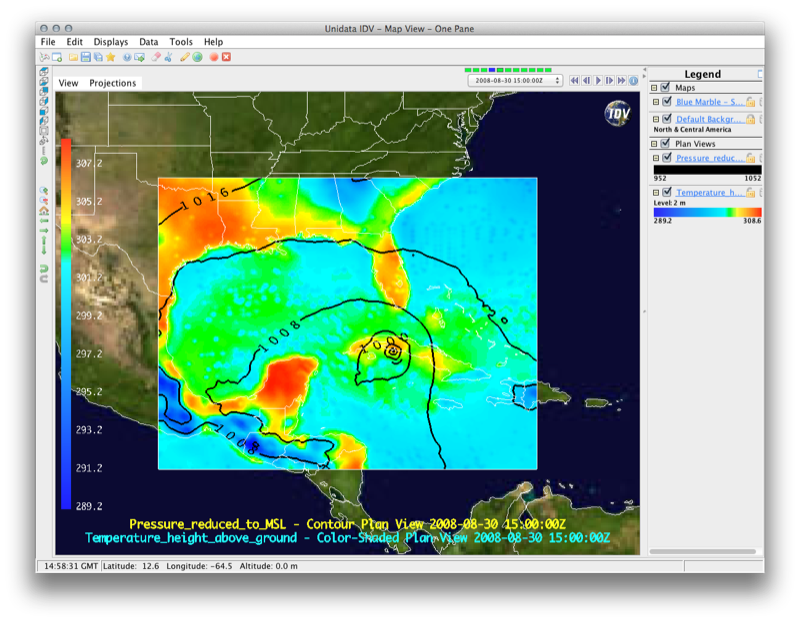
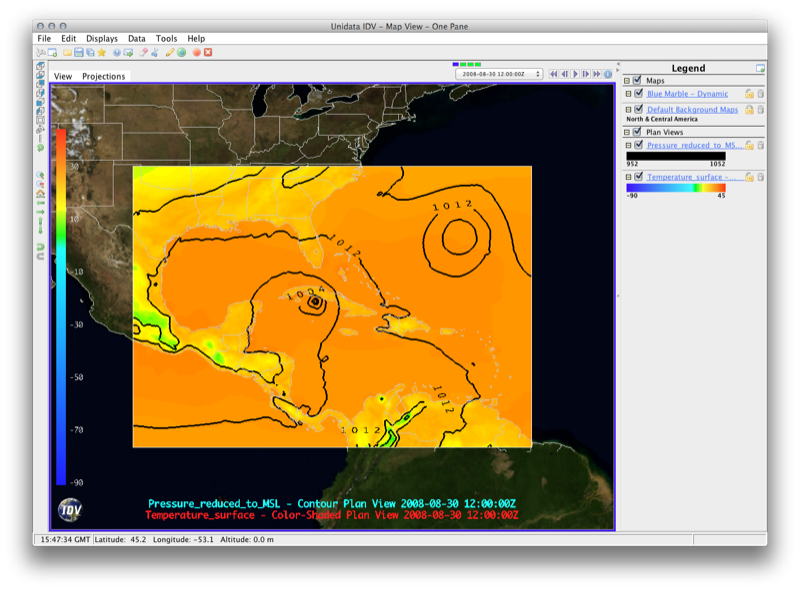
added performance section to WRF tutorial.

diff --git a/auxdata/docs/workshop/content/datadisplays/wrf/InteractiveWRFGridDisplays.html b/auxdata/docs/workshop/content/datadisplays/wrf/InteractiveWRFGridDisplays.html
@@ -9,11 +9,53 @@ Displays for WRF post-processed data.
 </div>
 
 <p>
-The following are examples of some of the different kinds of displays available in the IDV. For more information how to manipulate the display, simply click the image to see the User Guide section for that particular display type. The general format of this section will be an image, followed by the steps needed to reproduce the image. Please note that some displays (particularly the three dimensional ones) will take quite some time to render &mdash; consider using only one time step when producing these views. <!--the pages that pop-up use different data sources, but the instructions for creating the displays are the same.-->
+The following are examples of some of the different kinds of displays available in the IDV. For more information how to manipulate the display, simply click the image to see the User Guide section for that particular display type. The general format of this section will be an image, followed by the steps needed to reproduce the image. However, before diving into creating different displays in the IDV, let's take a moment to address performance issues you may encounter.
+</p>
+
+<div class="pagetitle">A note on performance</div>
+
+<p>
+As you may have experienced, it can take quite some time to get the data into the IDV and render the displays. One way to speed this up is to spatially subset the data over an area of interest. For our case, the Gulf of Mexico is where the 'action' is, so let's subest for that particular region:
+</p>
+
+<ol class="step">
+<li>Clear any existing data sources and displays by clicking the scissors symbol found just below the Main Menu bar on either the Dashboard to Main View window.</li>
+<li>Reload your WRF output using the following steps:</li>
+<ol class="step">
+  <li>From the [ht::command Data Choosers] tab in the Dashboard, locate your WRF output in the file browser and select the files you wish to load (hold shift to select multiple files)</li>
+  <li>Make sure that [ht::param Data Source Type] is set to [ht::param Aggregate Grids by Time]</li>
+  <li>Click [ht::command Add Source]</li>
+  <li>In the [ht::command Field Selector] panel, <b>right-click</b> your WRF output under [ht::param Data Sources] and click [ht::command Properties].</li>
+  <li>From the Properties box, select the [ht::command Spatial Subset] tab and use your mouse to click-and-drag a rectangular box on the [ht::param Bounding Box] map display.</li>
+  <li>After selecting your spatial subset region, click [ht::command OK].
+</ol>
+</ol>
+
+[ht::cimg ./images/InteractiveWRFSpatialSubset.png]
+
+<p>
+<b>Note:</b> Even with spatial subsetting in place, some displays (particularly the three dimensional ones) will take quite some time to render &mdash; consider using only one time step when producing these views.
 </p>
 
 <p>
-<b>Note:</b> Many of the example images used below take advatage of the NASA blue marble background image. If you wish to use blue marble, simply click [ht::menu {Displays} {Maps and Bounds} {Add Background Image}] and select [ht::param Blue Marble]. A second way to add the blue marble background is to click the globe icon found just below the Main Menu Bar. Both of these methods can be used from either the Dashboard or the Main Window.
+Many of the example images used below take advantage of the NASA blue marble background image. If you wish to use blue marble, simply click [ht::menu {Displays} {Maps and Bounds} {Add Background Image}] and select [ht::param Blue Marble]. A second way to add the blue marble background is to click the globe icon found just below the Main Menu Bar. Both of these methods can be used from either the Dashboard or the Main Window.
+</p>
+
+<p>
+It may seem like we've done a lot of work to setup our environment (loading data, subsetting, adding a background, etc.). In order to aid in quickly restoring our environment, we will use the <b>bundle</b> feature of the IDV. A bundle is a way of saving the state of the IDV (current data sources, loaded maps, etc.). You can create a bundle that points to local or remote data (an .xidv), or you can create a bundle that actually contains the data (a .zidv), the latter of which is useful when sharing displays of data you've generated yourself. For our purposes, let's create a bundle that points to the WRF output on our memory stick:
+</p>
+
+<ol class="step">
+<li>From the main menu bar, select [ht::menu {File} {Save As}] to bring up the [ht::command Save] dialog box.</li>
+<li>Make sure [ht::param Views], [ht::param Displays], and [ht::param Data Sources] are checked, as well as [ht::param Save with relative paths].</li>
+<li>Make sure the [ht::param File Format:] is set to [ht::param IDV Bundles (*.xidv)], and name the bundle [ht::param basicSetup.xidv].</li>
+<li>Save your bundle in the same directory as the WRF output on the memory stick</li>
+</ol>
+
+[ht::cimg ./images/InteractiveWRFSaveBundle.png]
+
+<p>
+To test the bundle, click the scissors symbol, found just below the main menu bar, to clear out all of the data and displays. Then, from the main menu bar, click [ht::menu {File} {Open}], use the file dialog box to navigate to your bundle, and select your bundle. An [ht::command Open bundle] dialog box will appear &mdash; make sure [ht::param Remove and displays & data] is checked and click [ht::command OK]. That's it &mdash; you should be good to go!
 </p>
 
 <div class="pagetitle">Plan Views</div>
@@ -22,14 +64,14 @@ The following are examples of some of the different kinds of displays available 
 
 <ol class="step">
 <li>Clear any existing displays by clicking the red and white eraser symbol found just below the Main Menu bar on either the Dashboard to Main View window.</li>
-<li>Make sure your WRF ouput is [ht::popup "InteractiveWRFLoadOutput.html" loaded].</li>
+<li>Make sure your WRF ouput is [ht::popup "InteractiveWRFLoadOutput.html" loaded] (or utilize the bundle we just created).</li>
 <li>In the [ht::command Field Selector] panel,
     expand the [ht::param 2D grid] tab. Select
-    [ht::param Temperature_height_above_ground] and the
+    [ht::param Temperature @ Surface] and the
     [ht::display Color-Shaded Plan View] display, then click
     the [ht::command Create Display] button.  </li>
 <li>In the [ht::command Displays] panel, Select
-    [ht::param Temperature_height_above_ground], and click
+    [ht::param Temperature @ Surface], and click
     [ht::menu {Edit} {Properties}], then select the [ht::param Color Scale Tab]
     and check the box next to [ht::param visible].
     Other properties of the color scale can be accessed
@@ -40,12 +82,10 @@ The following are examples of some of the different kinds of displays available 
     [ht::param Pressure_reduced_to_MSL @ msl] and the
     [ht::display Contour Plan View] display, then click
     the [ht::command Create Display] button.  </li>
-<li>In the [ht::command Displays] panel, Select
-    [ht::param Pressure_reduced_to_MSL]. Click the [ht::command Change] box next to Contour
-    to change the contour properties. Contour properties, such as contour color and field smoothing, can be
-    accessed from this tab. Change
-    the contour color to black by clicking the box next to Color Table and
-    select [ht::menu {Solid} {Black}].</li>
+<li>In the [ht::command Displays] panel, select the
+    [ht::param Pressure_reduced_to_MSL] field. Click the [ht::command Change] box next to Contour
+    to change the contour properties, such as base contour, interval, and label properties.</li>
+<li>In the [ht::command Displays] panel, change the contour color to black by clicking the box next to Color Table (likely labeled [ht::param PressureMSL]) and selecting [ht::menu {Solid} {Black}].</li>
 <li>Animate your display by clicking the <b>"play"</b> button, located just above
     and to the right of your display on the Main View Window</li>
 </ol>
@@ -56,7 +96,7 @@ The following are examples of some of the different kinds of displays available 
 
 <ol class="step">
 <li>Clear any existing displays by clicking the red and white eraser symbol found just below the Main Menu bar on either the Dashboard to Main View window.</li>
-<li>Make sure your WRF ouput is [ht::popup "InteractiveWRFLoadOutput.html" loaded].</li>
+<li>Make sure your WRF ouput is [ht::popup "InteractiveWRFLoadOutput.html" loaded] (or utilize the bundle we just created).</li>
 <li>In the [ht::command Field Selector] panel,
     expand the [ht::param 2D grid] tab. Scroll down and expand the
     [ht::param Derived] tab. Select the
@@ -91,7 +131,7 @@ creating the display.
 
 <ol class="step">
 <li>Clear any existing displays by clicking the red and white eraser symbol found just below the Main Menu bar on either the Dashboard to Main View window.</li>
-<li>Make sure your WRF ouput is [ht::popup "InteractiveWRFLoadOutput.html" loaded].</li>
+<li>Make sure your WRF ouput is [ht::popup "InteractiveWRFLoadOutput.html" loaded] (or utilize the bundle we just created).</li>
 <li>In the [ht::command Field Selector] panel,
     expand the [ht::param 2D grid] tab. Select
     [ht::param Pressure Reduced to MSL @ msl]</li>
@@ -104,7 +144,7 @@ we create the Hovm&ouml;ller diagram.
 
 <ol class="step">
 <li>After selecting [ht::param Pressure Reduced to MSL @ msl], click
-    the [ht::param Region] tab located in the bottom left panel, uncheck [ht::param Use Default]
+    the [ht::param Region] tab located in the bottom right panel, uncheck [ht::param Use Default]
     and select the region of interest by using your mouse to click and drag a rectangular selection on the map.</li>
 <li>Selet the [ht::menu {Hovmoller} {Time-Latitude (Color Shaded)}] display,
     then click the [ht::command Create Display] button.</li>
@@ -126,7 +166,7 @@ averaged over longitude for each time-step. To average over latitude instead, re
 
 <ol class="step">
 <li>Clear any existing displays by clicking the red and white eraser symbol found just below the Main Menu bar on either the Dashboard to Main View window.</li>
-<li>Make sure your WRF ouput is [ht::popup "InteractiveWRFLoadOutput.html" loaded].</li>
+<li>Make sure your WRF ouput is [ht::popup "InteractiveWRFLoadOutput.html" loaded] (or utilize the bundle we just created).</li>
 <li>In the [ht::command Field Selector] panel,
     expand the [ht::param 3D grid] tab. Scroll down and expand the
     [ht::param Derived] tab. Select the
@@ -152,7 +192,7 @@ averaged over longitude for each time-step. To average over latitude instead, re
 
 <ol class="step">
 <li>Clear any existing displays by clicking the red and white eraser symbol found just below the Main Menu bar on either the Dashboard to Main View window.</li>
-<li>Make sure your WRF ouput is [ht::popup "InteractiveWRFLoadOutput.html" loaded].</li>
+<li>Make sure your WRF ouput is [ht::popup "InteractiveWRFLoadOutput.html" loaded] (or utilize the bundle we just created).</li>
 <li>In the [ht::command Field Selector] panel,
     expand the [ht::param 3D grid] tab. Scroll down and expand the
     [ht::param Derived] tab. Select the
@@ -180,7 +220,7 @@ above, do the following:
 
 <ol class="step">
 <li>Clear any existing displays by clicking the red and white eraser symbol found just below the Main Menu bar on either the Dashboard to Main View window.</li>
-<li>Make sure your WRF ouput is [ht::popup "InteractiveWRFLoadOutput.html" loaded].</li>
+<li>Make sure your WRF ouput is [ht::popup "InteractiveWRFLoadOutput.html" loaded] (or utilize the bundle we just created).</li>
 <li>In the [ht::command Field Selector] panel,
     expand the [ht::param 3D grid] tab. Scroll down and expand the
     [ht::param Derived] tab. Select the
@@ -215,7 +255,7 @@ Notice that at this point, each cross section has its own control in the view wi
 
 <ol class="step">
 <li>Clear any existing displays by clicking the red and white eraser symbol found just below the Main Menu bar on either the Dashboard to Main View window.</li>
-<li>Make sure your WRF ouput is [ht::popup "InteractiveWRFLoadOutput.html" loaded].</li>
+<li>Make sure your WRF ouput is [ht::popup "InteractiveWRFLoadOutput.html" loaded] (or utilize the bundle we just created).</li>
 <li>In the [ht::command Field Selector] panel,
     expand the [ht::param 2D grid] tab and select the
     [ht::param Pressure_Reduced_to_MSL @ msl] field. Then, hold
@@ -234,7 +274,7 @@ In the Main View Window, you will see contours of [ht::param Pressure_Reduced_to
 
 <ol class="step">
 <li>Clear any existing displays by clicking the red and white eraser symbol found just below the Main Menu bar on either the Dashboard to Main View window.</li>
-<li>Make sure your WRF ouput is [ht::popup "InteractiveWRFLoadOutput.html" loaded].</li>
+<li>Make sure your WRF ouput is [ht::popup "InteractiveWRFLoadOutput.html" loaded] (or utilize the bundle we just created).</li>
 <li>In the [ht::command Field Selector] panel,
     expand the [ht::param 3D grid] tab, and select the
     [ht::param Relative Humidity @ isobaric] field. Then, hold
@@ -256,7 +296,7 @@ In the Main View Window, you will see the 90% RH isosurface, as well as a time-h
 
 <ol class="step">
 <li>Clear any existing displays by clicking the red and white eraser symbol found just below the Main Menu bar on either the Dashboard to Main View window.</li>
-<li>Make sure your WRF ouput is [ht::popup "InteractiveWRFLoadOutput.html" loaded].</li>
+<li>Make sure your WRF ouput is [ht::popup "InteractiveWRFLoadOutput.html" loaded] (or utilize the bundle we just created).</li>
 <li>In the [ht::command Field Selector] panel,
     expand the [ht::param 3D grid] tab. Scroll down and expand the
     [ht::param Derived] tab. Select the
